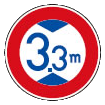
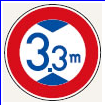
=画像の回転をランダムでできるようにしました。

diff --git a/DatasetFactory.py b/DatasetFactory.py
@@ -1,5 +1,5 @@
-# coding: utf-8
-# Union.pyを使って、データセットを作成します。
+# coding:utf-8
+#Union.pyを使って、データセットを作成します。
 from Union  import *
 import glob
 from PIL import Image
@@ -22,7 +22,7 @@ flags.DEFINE_string('name','???','クラス名(cat,dog,など)')
 flags.DEFINE_string('config','./dataset.csv','合成方法の設定ファイル')
 
 FLAGS = flags.FLAGS
-
+random.seed("1234") #実験のため、ランダム要素を固定
 def main(_):
 # 設定
 
@@ -36,10 +36,10 @@ def main(_):
     NAME=FLAGS.name
     CONFIG=FLAGS.config
 
-    RESIZE_RATE=8 #背景画像の幅サイズの何分の１にするか
+    RESIZE_RATE=5 #背景画像の幅サイズの何分の１にするか
     data=csv_read(RECIPE,"utf-8")
 
-    print ("フォーマット：label,minX,minY,maxX,maxY,path,file,name")
+    # print ("フォーマット：label,minX,minY,maxX,maxY,path,file,name")
 
 #一時ディレクトリの作成
     if(os.path.isdir("./tmp")):
@@ -53,20 +53,33 @@ def main(_):
         None
     else:
         os.mkdir(OUTPUT_DIR)
-        
-#アノテーションファイルの初期化
-    if(os.path.exists(ANNOTATION_FILE) and ( INIT is "true" or INIT is "True")):
-        os.remove(ANNOTATION_FILE)
+#下の処理はShellにやらせる    
+# #アノテーションファイルの初期化
+#     if(os.path.exists(ANNOTATION_FILE) and ( INIT is "true" or INIT is "True")):
+#         os.remove(ANNOTATION_FILE)
+    
+#     #アノテーションファイルに記録
+#     with open(ANNOTATION_FILE,"a") as f:
+#         print >> f,"label,minX,minY,maxX,maxY,path,file,name"
 
     
 #DetasetFactoryの設定ファイル読み込み
     config=csv_read(CONFIG,"utf-8")
-    config_rows={row[0]:row[1:] for row in config[1:]}
-    
+    config_rows={row[0]:{config[0][i]:row[i] for i in range(1,len(row))} for row in config[1:]}
 
 #処理
     cnt=0
-    for i in range(1,len(data)):
+    i=1
+    flag=0
+
+    total = len(filter(lambda f: os.path.isfile(os.path.join(BACKGROUND_DIR, f)),
+                        os.listdir(BACKGROUND_DIR)))
+    # print(total)#背景画像数
+
+    for j in range(1,total+1):
+        if(flag==1):
+            i+=1
+            flag=0
         bak=Image.open(BACKGROUND_DIR+str(data[i][0]))
         bak_w,bak_h=bak.size
         for image in glob.glob(TARGET_DIR+"*"):
@@ -74,66 +87,96 @@ def main(_):
             image_w,image_h=img.size
 
             if os.path.basename(image) in config_rows:
-                SharpBackground,SepiaAll,Brightness_mode,Extraction_mode, \
-                dilate,erode,angle,R,G,B,Threshold,brightness,BilateralFilter, \
-                GausianFilter,HideNum,x1_Ho,y1_Ho,x2_Ho,y2_Ho,x3_Ho,y3_Ho,x4_Ho,y4_Ho, \
-                flips,amount,sp_ratio,mean,sigma,kernel=config_rows[os.path.basename(image)]
-
+                config_name=image
             else:
-                SharpBackground,SepiaAll,Brightness_mode,Extraction_mode, \
-                dilate,erode,angle,R,G,B,Threshold,brightness,BilateralFilter, \
-                GausianFilter,HideNum,x1_Ho,y1_Ho,x2_Ho,y2_Ho,x3_Ho,y3_Ho,x4_Ho,y4_Ho, \
-                flips,amount,sp_ratio,mean,sigma,kernel=config_rows["default"]
-
-            print(kernel)
+                config_name="default"
+   		
+	    #print(config_name)         
+            # print(kernel)
             #横幅のサイズを再設定(高さ自動で調整される)
             resize=-1*(-1*bak_w//RESIZE_RATE) #切り上げ割り算
             tar_raito=float(resize)/image_w 
 
             #ターゲットが生成画像で見切れないように配置位置を調整。その際、配置領域より画像のほうが大きい場合も考慮
-            if(int(data[i][3])-resize>int(data[i][1])):#X(幅)
-                X=random.randint(int(data[i][1]),int(data[i][3])-resize)
-            else:
-                X=int(data[i][3])-resize
+            #同じ背景画像に複数の領域が指定されているときは、それも考慮。重複して画像が生成されないようにする
 
-            if(int(data[i][4])-image_h*tar_raito>int(data[i][2])):#Y(高さ)
-                Y=random.randint(int(data[i][2]),int(data[i][4])-int(image_h*tar_raito))
+            if(str(data[i][0])==str(data[i+1][0])):
+                #X(幅)
+                if(random.choice([0,1])==0):
+                    if(int(data[i][3])-resize>int(data[i][1])):
+                        X=random.randint(int(data[i][1]),int(data[i][3])-resize)
+                    else:
+                        X=int(data[i][3])-resize
+                else:
+                    if(int(data[i+1][3])-resize>int(data[i+1][1])):
+                        X=random.randint(int(data[i+1][1]),int(data[i+1][3])-resize)
+                    else:
+                        X=int(data[i][3])-resize
+                #Y(高さ)
+                if(random.choice([0,1])==0):
+                    if(int(data[i][4])-image_h*tar_raito>int(data[i][2])):
+                        Y=random.randint(int(data[i][2]),int(data[i][4])-int(image_h*tar_raito))
+                    else:
+                        Y=int(data[i][4])-int(image_h*tar_raito)
+                else:
+                    if(int(data[i+1][4])-image_h*tar_raito>int(data[i+1][2])):
+                        Y=random.randint(int(data[i+1][2]),int(data[i+1][4])-int(image_h*tar_raito))
+                    else:
+                        Y=int(data[i][4])-int(image_h*tar_raito)
             else:
-                Y=int(data[i][4])-int(image_h*tar_raito)
+                #X
+                if(int(data[i][3])-resize>int(data[i][1])):
+                    X=random.randint(int(data[i][1]),int(data[i][3])-resize)
+                else:
+                    X=int(data[i][3])-resize
+                #Y
+                if(int(data[i][4])-image_h*tar_raito>int(data[i][2])):
+                    Y=random.randint(int(data[i][2]),int(data[i][4])-int(image_h*tar_raito))
+                else:
+                    Y=int(data[i][4])-int(image_h*tar_raito)    
+ 
     
             #合成開始
             out,tar_h,tar_w=Union(
                 label_name=LABEL,
                 bak=BACKGROUND_DIR+str(data[i][0]),tar=image,
                 X=X,Y=Y,
-                resize=2,
-                SharpBackground=bool(int(SharpBackground)),
-                SepiaAll=bool(int(SepiaAll)),
-                Brightness_mode=str(Brightness_mode),
-                Extraction_mode=str(Extraction_mode),
-                dilate=int(dilate),erode=int(erode),
-                angle=int(angle),
-                R=int(R),G=int(G),B=int(B),
-                Threshold=int(Threshold),
-                brightness=float(brightness),
-                BilateralFilter=int(BilateralFilter),
-                GausianFilter=int(GausianFilter),
-                HideNum=int(HideNum),
-                x1_Ho=int(x1_Ho),y1_Ho=int(y1_Ho),x2_Ho=int(x2_Ho),y2_Ho=int(y2_Ho),x3_Ho=int(x3_Ho),y3_Ho=int(y3_Ho),x4_Ho=int(x4_Ho),y4_Ho=int(y4_Ho),
-                flips=int(flips),
-                amount=float(amount),
-                sp_ratio=float(sp_ratio),
-                mean=int(mean),
-                sigma=int(sigma),
-                kernel=int(kernel)
+                resize=tar_raito,
+                SharpBackground=bool(int(config_rows[config_name]["SharpBackground"])),
+                SepiaAll=bool(int(config_rows[config_name]["SepiaAll"])),
+                Brightness_mode=str(config_rows[config_name]["Brightness_mode"]),
+                Extraction_mode=str(config_rows[config_name]["Extraction_mode"]),
+                dilate=int(config_rows[config_name]["dilate"]),erode=int(config_rows[config_name]["erode"]),
+                Random_rotation=bool(int(config_rows[config_name]["Random_rotation"])),
+                angle=int(config_rows[config_name]["angle"]),
+                R=int(config_rows[config_name]["R"]),G=int(config_rows[config_name]["G"]),B=int(config_rows[config_name]["B"]),
+                Threshold=int(config_rows[config_name]["Threshold"]),
+                brightness=float(config_rows[config_name]["brightness"]),
+                BilateralFilter=int(config_rows[config_name]["BilateralFilter"]),
+                GausianFilter=int(config_rows[config_name]["GausianFilter"]),
+                HideNum=int(config_rows[config_name]["HideNum"]),
+                x1_Ho=int(config_rows[config_name]["x1_Ho"]),y1_Ho=int(config_rows[config_name]["y1_Ho"]),
+                x2_Ho=int(config_rows[config_name]["x2_Ho"]),y2_Ho=int(config_rows[config_name]["y2_Ho"]),
+                x3_Ho=int(config_rows[config_name]["x3_Ho"]),y3_Ho=int(config_rows[config_name]["y3_Ho"]),
+                x4_Ho=int(config_rows[config_name]["x4_Ho"]),y4_Ho=int(config_rows[config_name]["y4_Ho"]),
+                flips=int(config_rows[config_name]["flips"]),
+                amount=float(config_rows[config_name]["amount"]),
+                sp_ratio=float(config_rows[config_name]["sp_ratio"]),
+                mean=int(config_rows[config_name]["mean"]),
+                sigma=int(config_rows[config_name]["sigma"]),
+                kernel=int(config_rows[config_name]["kernel"])
                 )
             #アノテーションファイルに記録
             with open(ANNOTATION_FILE,"a") as f:
-                print >> f,LABEL+","+str(X)+","+str(Y)+","+str(X+tar_w)+","+str(Y+tar_h)+","+OUTPUT_DIR+"out_"+str(cnt)+"label_"+str(LABEL)+".jpg,out_"+str(cnt)+"label_"+str(LABEL)+".jpg,"+str(NAME)
+                print >> f,LABEL+","+str(X)+","+str(Y)+","+str(X+tar_w)+","+str(Y+tar_h)+","+OUTPUT_DIR+"out_label_"+str(LABEL)+"_"+str(cnt)+".jpg,out_label_"+str(LABEL)+"_"+str(cnt)+".jpg,"+str(NAME)
             
             #合成画像の書き出し
-            out.save(OUTPUT_DIR+"out_"+str(cnt)+"label_"+str(LABEL)+".jpg",quality=95)
+            out.save(OUTPUT_DIR+"out_label_"+str(LABEL)+"_"+str(cnt)+".jpg",quality=95)
             cnt+=1
+        if(str(data[i][0])==str(data[i+1][0])):#もし同じ背景画像が次も続くなら
+            flag=1
+        i+=1
+
 
     shutil.rmtree("./tmp") #一時ファイルの削除
 

diff --git a/Union.py b/Union.py
@@ -14,6 +14,7 @@ import cv2
 #Extraction_mode : 前景抽出方法を選択(No,Color,Binary)
 #dilate,erode：クロージング時の拡大率と縮小率
 #X,Y：前景画像の貼り付け位置（途中の処理で前景画像をリサイズするのでその後の貼り付け位置）
+#Random_rotation : 画像をランダムで回転させるか
 #resize：前景画像を倍数指定でリサイズします
 #R,G,B：切り抜かれる色を指定(0〜255）
 #Threshold：２値化のの際の閾値（輪郭抽出）
@@ -38,6 +39,7 @@ def Union(label_name="?",
          Extraction_mode="No",
          dilate=0,erode=0,
          X=0,Y=0,
+         Random_rotation=False,
          angle=0,
          resize=1,
          R=248,G=248,B=248,
@@ -91,9 +93,12 @@ def Union(label_name="?",
     target=Homography(cv2.imread("./tmp/tmp.png",-1),tar_w=tar_w,tar_h=tar_h,
                           x1=x1_Ho,y1=y1_Ho,x2=x2_Ho,y2=y2_Ho,x3=x3_Ho,y3=y3_Ho,x4=x4_Ho,y4=y4_Ho)
 
-    #アフィン回転
-    target=Affine(target,angle)
-    
+    #アフィン回転(ランダムで回転させるか)
+    if Random_rotation:
+        target=Affine(target,random.randint(0,360))
+    else:
+        target=Affine(target,angle)
+
     #トリミング
     target=ImageTrim(target)
     cv2.imwrite("./tmp/tmp.png",target)

diff --git a/UnionKit.py b/UnionKit.py
@@ -57,7 +57,7 @@ def Extraction(Extraction_mode=None,
               ):
     
     if(Extraction_mode=="Binary"):
-        print("Binary")
+        #print("Binary")
         #2値化による輪郭抽出
         th1=Binarize(Threshold,tar)
         MakeMask(th1,dilate,erode)
